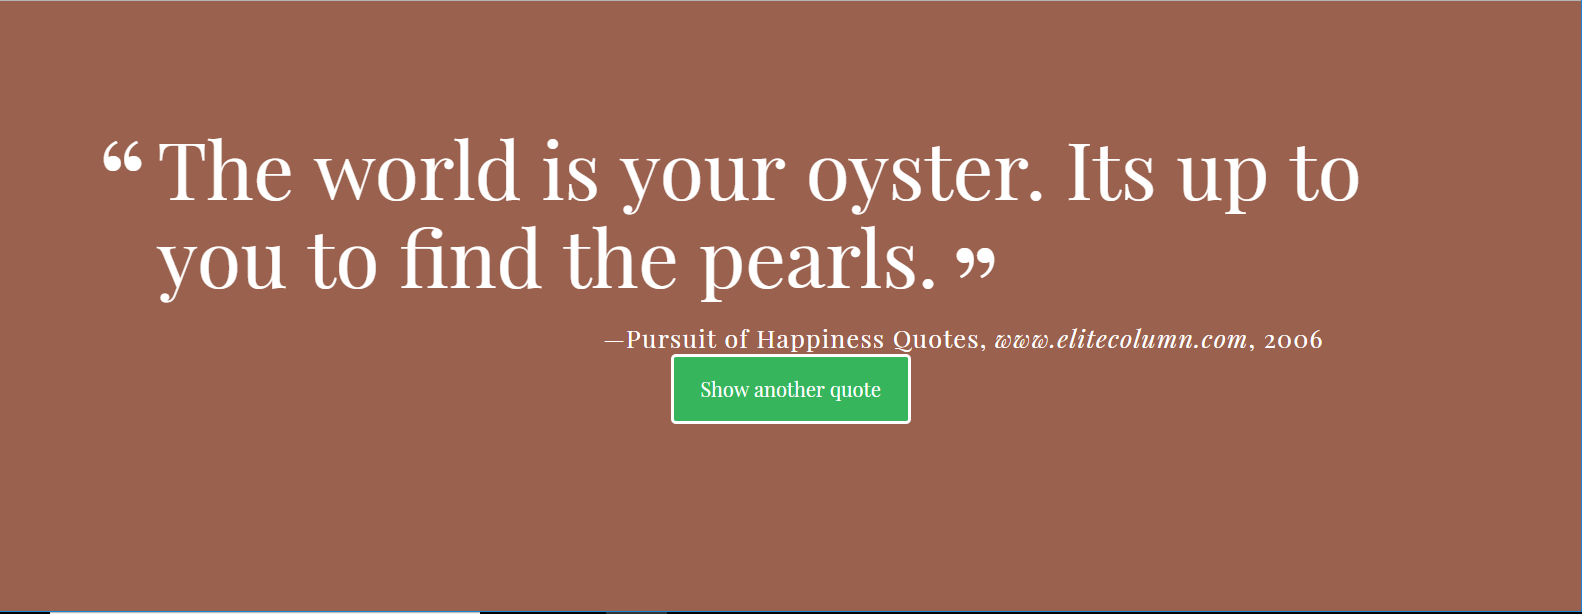
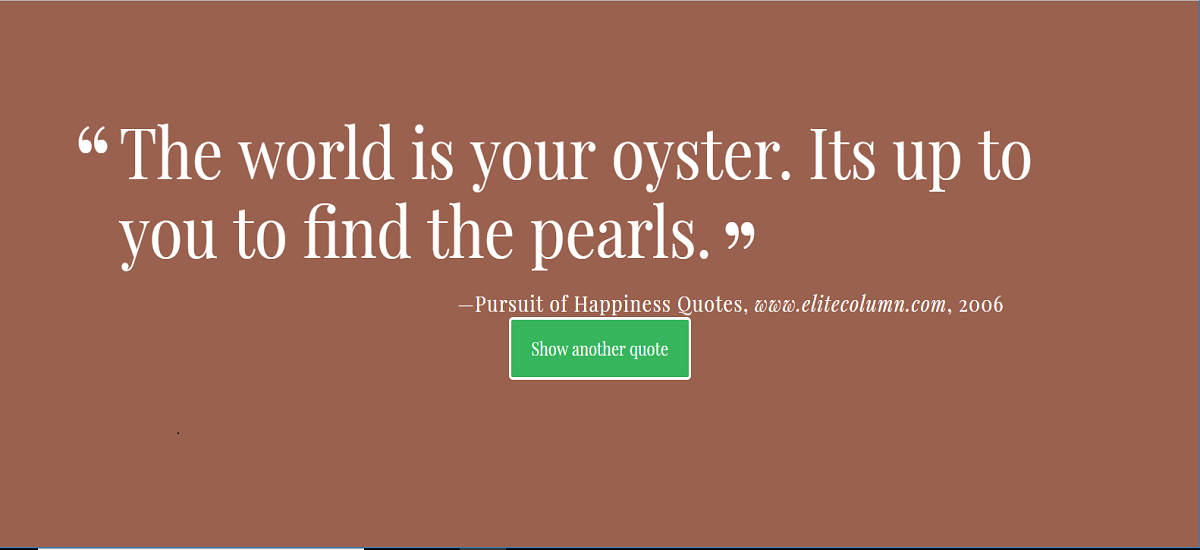
extra credit additions

diff --git a/public/css/style.css b/public/css/style.css
@@ -161,3 +161,29 @@ a:hover{
   -webkit-transition: border 2s; /* For Safari 3.1 to 6.0 */
   transition: border 2s;
 }
+
+.font {
+  font-family: "Palatino Linotype", "Book Antiqua", Palatino, serif;
+  font-size: 18px;
+  letter-spacing: 2px;
+  word-spacing: 2px;
+  color: #000000;
+  font-weight: normal;
+  text-decoration: none;
+  font-style: italic;
+  font-variant: normal;
+  text-transform: none;
+}
+
+.boxShadow{
+  -webkit-box-shadow: 5px 5px 15px 5px #000000; 
+  box-shadow: 5px 5px 15px 5px #000000;
+}
+
+.myButton {
+  color: rgb(255, 255, 255); font-size: 16px; line-height: 16px; padding: 6px; border-radius: 10px; font-family: "Palatino Linotype", "Book Antiqua", Palatino, serif; font-weight: normal; text-decoration: none; font-style: italic; font-variant: normal; text-transform: none; background-image: linear-gradient(to right, rgb(28, 110, 164) 0%, rgb(35, 136, 203) 31%, rgb(20, 78, 117) 100%); box-shadow: rgb(0, 0, 0) 5px 5px 15px 5px; border: 2px solid rgb(28, 110, 164); display: inline-block;}
+  .myButton:hover {
+    background: #1C6EA4;
+  } .myButton:active {
+  background: #144E75;
+  }

diff --git a/example-html/index.html b/example-html/index.html
@@ -79,7 +79,6 @@
       </article>
     </div>
 
-
     <script src="../public/js/vendor/jquery.js"></script>
     <script src="../public/js/vendor/what-input.js"></script>
     <script src="../public/js/vendor/foundation.js"></script>

diff --git a/README.md b/README.md
@@ -3,4 +3,23 @@ Express and Node
 
 This project is to create a professional profile and highlight my former projects that I have worked on this far. I will be making changes to better each project, as I gain more knowledge. I have used Express, Node.js, Pug, and JSON packages to complete the project. 
 
-Set my background to powderblue.
+Description
+Show pictures displayig different projects.
+Make portfolio personable to self.
+
+How Solved
+Create a data.json file at the root of your directory.
+Each project object should contain different properties.
+Create an app.js file at the root of your directory.
+Add variables to require the necessary dependencies.
+Set up your middleware.
+Set routes.
+Add an error handler to app.js that sets the error message to a user friendly message, and sets the status code.
+Log out a user friendly message to the console when the app is pointed at a URL that doesn't exist as a route in the app, such as /error/error.Log out a user friendly message to the console when the app is pointed at a URL that doesn't exist as a route in the app, such as /error/error.
+Go through each of the four Pug templates to inject your data.
+
+Extra Credit
+Added powder blue for my background color.
+Changed the font.
+Changed button on click.
+Added box shadow.
